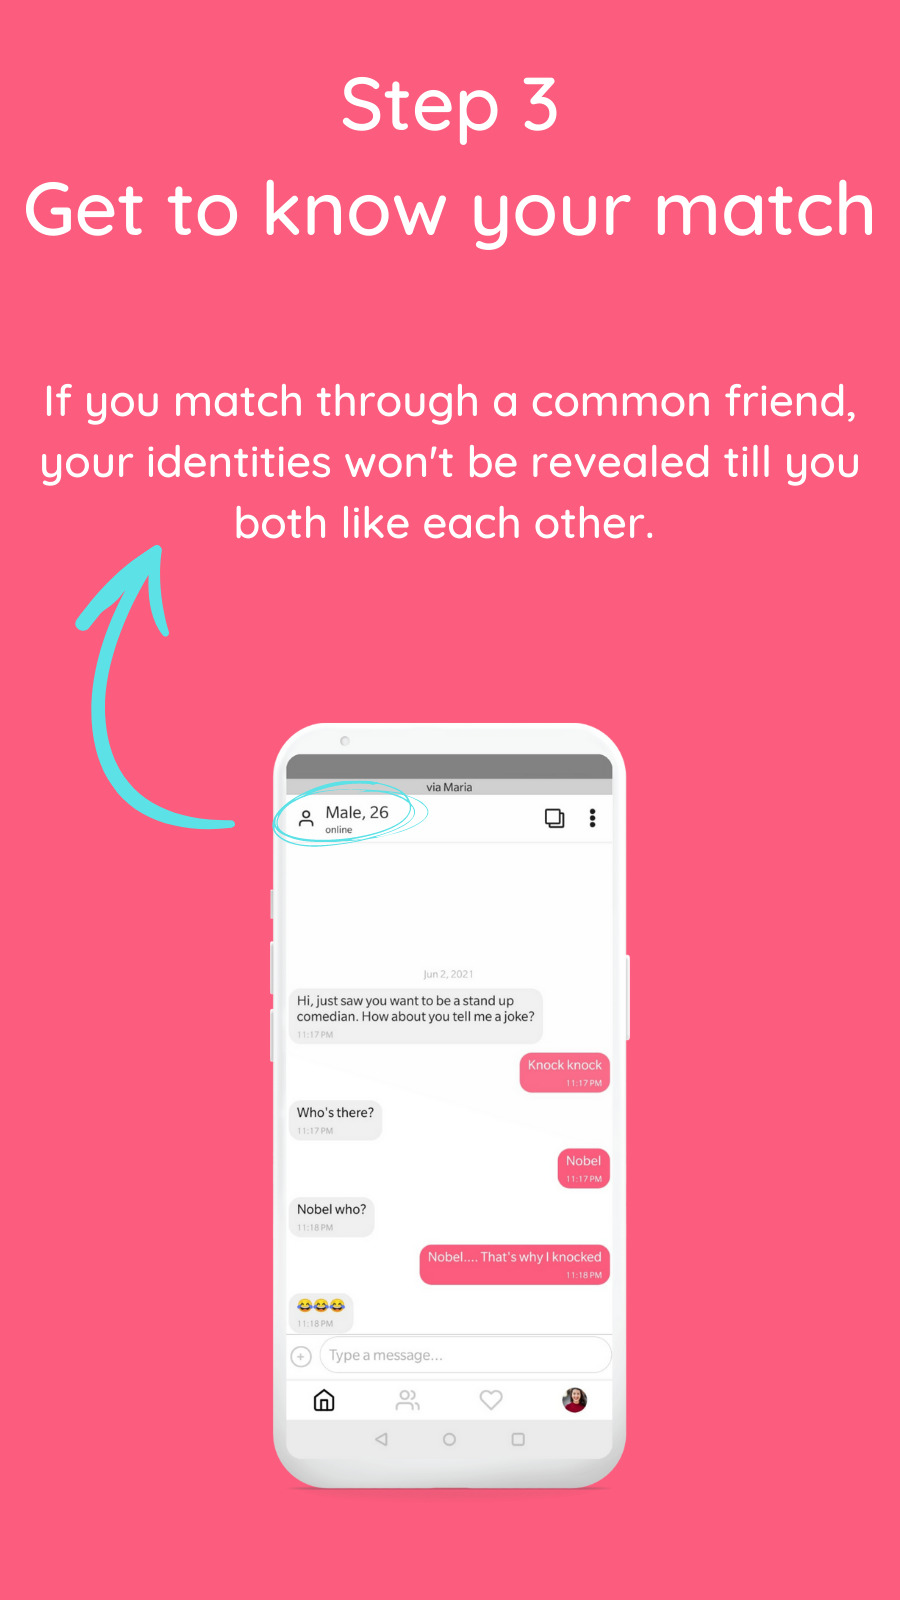
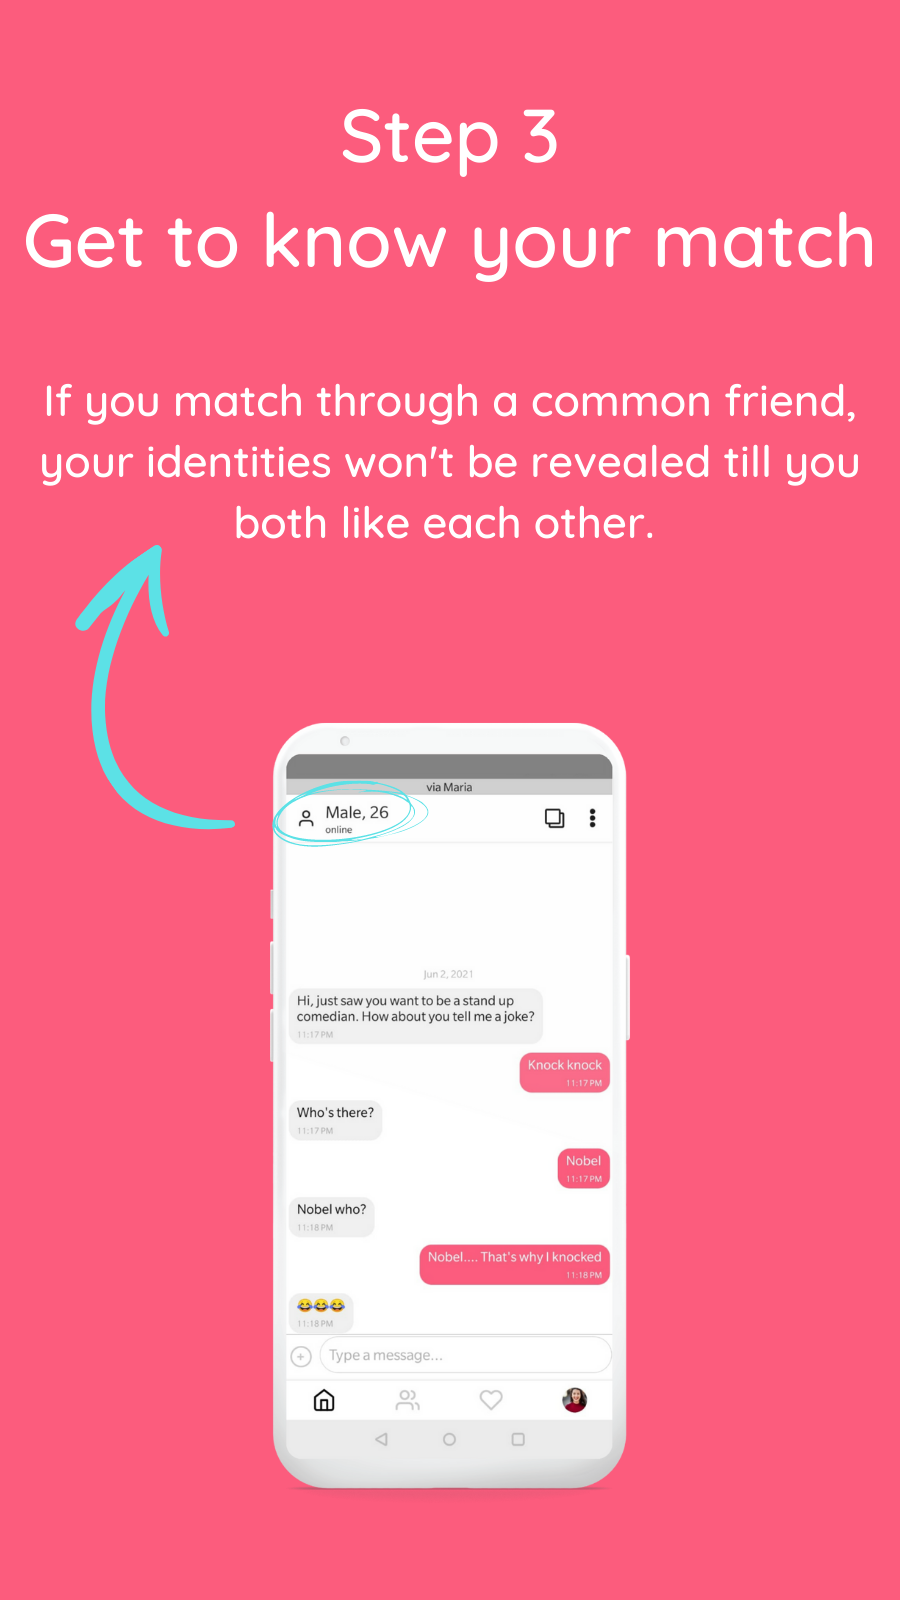
aspect ratio change

Changed region(s): [[0.1867, 0.0312, 0.6844, 0.1875], [0.7156, 0.0938, 0.9956, 0.1875], [0.0311, 0.0938, 0.1556, 0.1875]]

diff --git a/screens/home/HowItWorksScreen.js b/screens/home/HowItWorksScreen.js
@@ -21,7 +21,7 @@ const localStyles = StyleSheet.create({
     justifyContent: 'center',
     alignItems: 'center',
   },
-  slideImage: {aspectRatio: 1, width: '100%', height: undefined},
+  slideImage: {aspectRatio: 9 / 16, width: '100%', height: undefined},
   slideTitle: {fontSize: 24},
   slideSubtitle: {fontSize: 18},
 
@@ -63,6 +63,7 @@ const data = [
   {image: require('../../assets/how-it-works/4.png')},
   {image: require('../../assets/how-it-works/5.png')},
   {image: require('../../assets/how-it-works/6.png')},
+  {image: require('../../assets/how-it-works/7.png')},
 ];
 
 const Slide = memo(function Slide({item, index}) {
